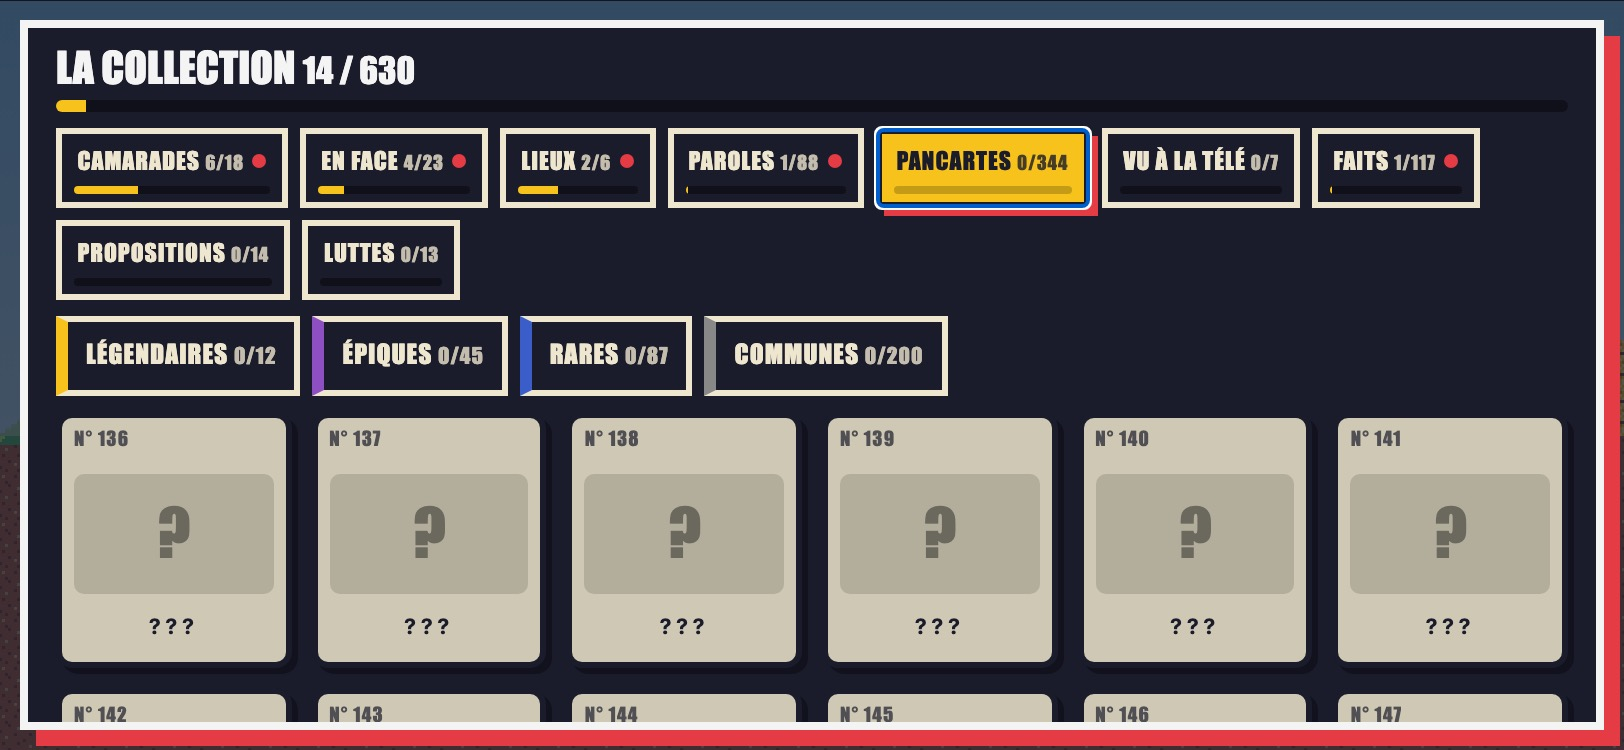
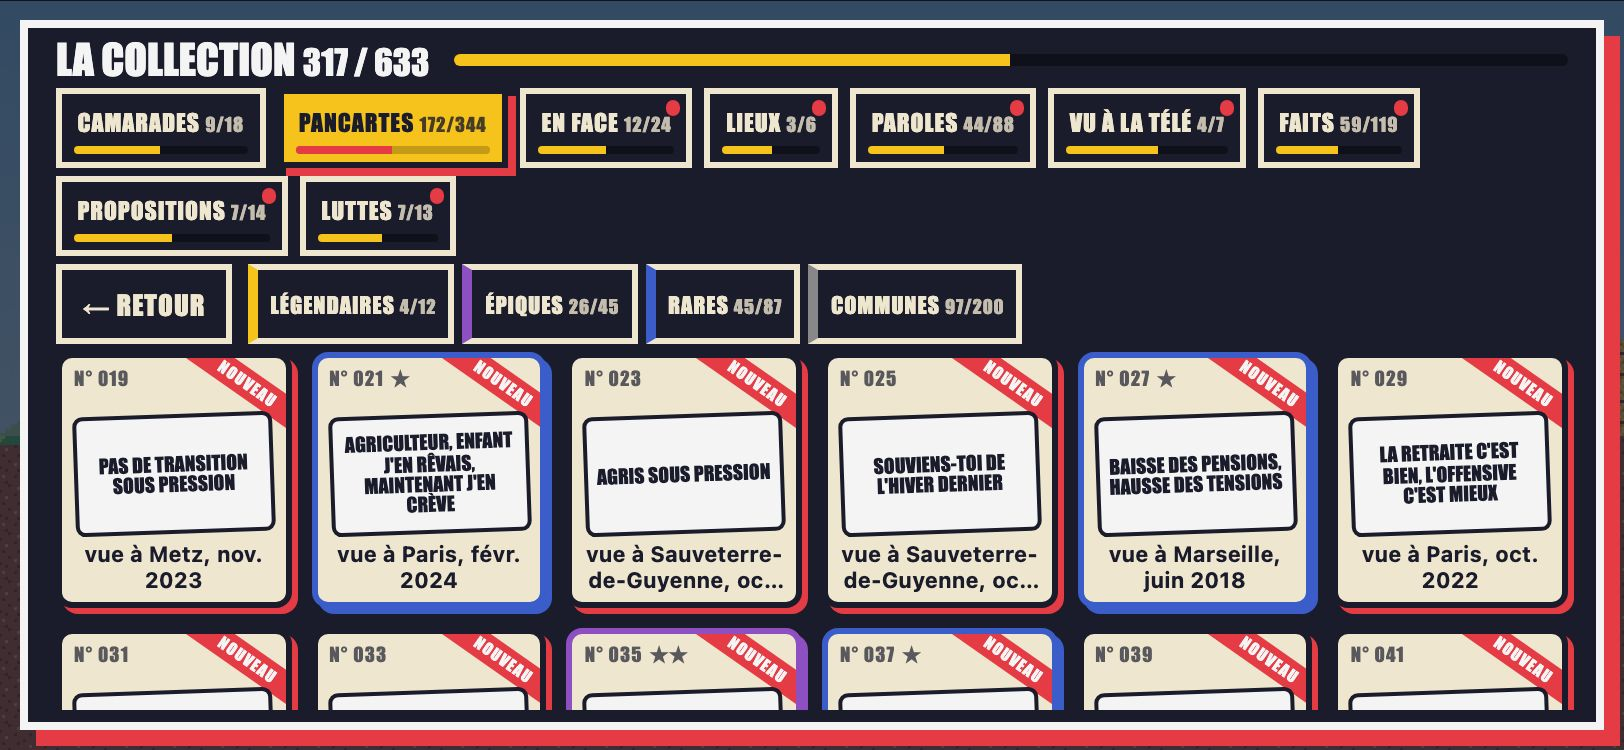
fix: une Collection qui ne bouge plus, les pancartes en deuxième, et un retour sur le carton d'ouverture (#21)
* fix: une Collection qui garde sa taille d'un rayon à l'autre

« Je trouve que le menu de la collection est trop difficile à naviguer
parce qu'il change tout le temps de taille dès qu'on change de catégorie.
Alors ça le rend difficile à lire. » (Valentin, 16 novembre 2026)

Pourquoi elle bougeait :
- le panneau prenait la hauteur de son contenu et se recentrait : un rayon
  court (Lieux, Vu à la télé, Propositions, Luttes) le faisait descendre
  de 64 à 133 px à 1280×720, et de 1 à 8 px sur téléphone ;
- la rangée des filtres de rareté n'existait que pour Pancartes et Vu à
  la télé : la grille sautait de 40 à 48 px ;
- la pastille « Nouveau » élargissait l'onglet qui la portait, et
  disparaissait une fois le rayon vu : les onglets glissaient, et sur
  téléphone pivoté l'un d'eux changeait de ligne ;
- tout le panneau défilait : une barre de défilement classique
  (Windows) apparaissait sur les longs rayons et rétrécissait de 15 px
  la rangée d'onglets et la grille.

Maintenant, le panneau a sa hauteur à lui ; titre, rayons, filtres et
« Retour » restent en place et seule la grille défile, sa barre ayant
toujours sa place. La rangée des filtres garde sa hauteur, vide sur les
rayons sans rareté. La pastille se pose dans le coin de l'onglet. Sur un
écran bas, « Retour » ouvre la rangée des filtres et la grande jauge
s'efface : une rangée entière de cartes reste en vue.

* feat: les pancartes en deuxième dans la Collection
[…]

diff --git a/style.css b/style.css
@@ -414,6 +414,11 @@ html.pivote body.tactile #toasts { right: calc(max(10px, env(safe-area-inset-bot
 .panneau .pied button.effacer { margin-left: auto; font-size: .8em; opacity: .75; } /* à l'écart, en bas des Options du menu */
 .pause .touches { margin: 0; }
 .intro .depart { display: flex; flex-direction: column; align-items: center; }
+/*
+ * « ← Retour » à gauche de « C'est parti », plus discret : le bouton principal reste celui qui lance le niveau.
+ * Les deux boutons restent sur une ligne ; sur un écran bas, ce sont les commandes, à côté, qui se resserrent.
+ */
+.intro .boutons { display: flex; flex: none; justify-content: center; align-items: center; gap: 10px; }
 .panneau .onglets { display: flex; flex-wrap: wrap; gap: 8px; margin: .8em 0; }
 .panneau .contenu { font-size: .9rem; }
 
@@ -509,7 +514,10 @@ html.bas .pause h2 { margin: 0; font-size: 1.4rem; }
 html.bas .pause button { padding: .5em .6em; }
 html.bas .pause button.gros { font-size: 1.15rem; }
 html.bas .intro .depart { flex-direction: row; justify-content: center; gap: 14px; margin-top: .3em; }
-html.bas .intro .depart .touches { justify-content: flex-start; max-width: 25em; margin: 0; font-size: .72rem; line-height: 1.5; text-align: left; }
+html.bas .intro .depart .touches { justify-content: flex-start; max-width: 25em; min-width: 0; margin: 0; font-size: .72rem; line-height: 1.5; text-align: left; }
+html.bas .intro .boutons { gap: 8px; }
+html.bas .intro .boutons button.discret { font-size: .85rem; padding: .4em .75em; }
+body.tactile .intro .boutons button.discret { min-height: 40px; }
 html.bas .panneau.commandes { padding: 10px 14px; }
 html.bas .commandes h2 { font-size: 1.3rem; margin: 0 0 .3em; }
 html.bas .commandes table { font-size: .7rem; line-height: 1.25; }
@@ -704,16 +712,44 @@ article.carte.cachee h3 { letter-spacing: .2em; }
 /* l'album : barres de progression, cartes compactes toutes de la même taille */
 .jauge { display: block; height: 6px; background: #0006; border-radius: 3px; overflow: hidden; }
 .jauge i { display: block; height: 100%; background: var(--or); }
+/*
+ * La Collection ne change pas de taille d'un rayon à l'autre : le panneau a sa hauteur à lui, pas celle de son
+ * contenu ; le titre, les rayons, « Retour » et les filtres restent en place, seule la grille défile.
+ */
+.panneau.biblio {
+  height: min(100%, 800px);
+  display: grid;
+  grid-template-columns: auto minmax(0, 1fr);
+  grid-template-rows: auto auto auto auto minmax(0, 1fr);
+  overflow: hidden;
+}
+.biblio > * { grid-column: 1 / -1; }
 .biblio > .jauge { height: 10px; margin: -.3em 0 .9em; }
+.biblio > .onglets { margin: 0 0 10px; }
+/* « Retour » ouvre la rangée des filtres : elle a toujours la hauteur du bouton, que le rayon ait des raretés ou non. */
+.biblio > .barre { display: flex; align-items: center; gap: 10px; margin: 0 0 10px; }
+/* La grille défile seule ; sa barre de défilement a toujours sa place, la largeur des colonnes n'en dépend pas. */
+.biblio > .contenu { min-height: 0; overflow-y: auto; overscroll-behavior: contain; scrollbar-gutter: stable; margin: -6px -8px 0 -6px; padding: 6px 8px 10px 6px; }
+/* Trop bas pour une rangée entière de cartes sous les rayons (`Screens.fitShelf`) : le titre et sa jauge se replient. */
+:is(html, html.bas) .panneau.biblio.serre { padding-block: 4px; grid-template-rows: auto auto minmax(0, 1fr); }
+.biblio.serre > h2, .biblio.serre > .jauge { display: none; }
+:is(html, html.bas) .panneau.biblio.serre > :is(.onglets, .barre) { margin-bottom: 2px; }
+/* Plus bas encore : tout le panneau défile, les rayons restent collés en haut. Au repos, rien ne bouge d'un rayon à l'autre. */
+.panneau.biblio.tout-defile { display: flex; flex-flow: row wrap; align-content: flex-start; align-items: center; overflow-y: auto; overscroll-behavior: contain; scrollbar-gutter: stable; scroll-padding-bottom: 8px; }
+.biblio.tout-defile > * { flex: 1 0 100%; }
+/* Collés tout en haut, marge du panneau comprise : aucune carte ne passe au-dessus d'eux. */
+.biblio.tout-defile > .onglets { position: sticky; top: -6px; z-index: 1; background: var(--nuit); box-shadow: 0 4px 0 var(--nuit); }
+.biblio.tout-defile > .contenu { overflow: visible; }
 .biblio .onglets button { position: relative; padding-bottom: 1em; }
 .biblio .onglets button small { font-size: .8em; opacity: .8; }
 .biblio .onglets button .jauge { position: absolute; left: 6px; right: 6px; bottom: 4px; height: 4px; }
 .biblio .onglets button:not(.discret) .jauge { background: #0003; }
 .biblio .onglets button:not(.discret) .jauge i { background: var(--rouge); }
 .pastille { display: inline-block; width: .6em; height: .6em; margin-left: .35em; border-radius: 50%; background: var(--rouge); vertical-align: .1em; }
+/* Sur un rayon, la pastille se pose dans le coin : qu'elle vienne ou s'en aille, l'onglet garde sa largeur. */
+.biblio .onglets .pastille { position: absolute; top: 4px; right: 4px; margin: 0; }
 
-.biblio .raretes { display: flex; flex-wrap: wrap; gap: 6px; margin: 0 0 .8em; }
-.biblio .raretes:empty { display: none; }
+.biblio .raretes { display: flex; flex-wrap: wrap; gap: 6px; min-width: 0; }
 .biblio .raretes button { font-size: .8rem; padding: .35em .7em; border-left: 6px solid var(--gris, #888); }
 .biblio .raretes button.rarete-1 { border-left-color: var(--rare); }
 .biblio .raretes button.rarete-2 { border-left-color: var(--epique); }
@@ -782,15 +818,24 @@ html.bas .carte-ouverte article.carte > * { margin-bottom: 5px; }
 html.bas .carte-ouverte article.carte > :not(header, .vignette) { display: flow-root; } /* le texte se range à côté de l'image */
 html.bas .carte-ouverte article.carte > .vignette { float: left; width: 34%; height: 128px; margin: 0 10px 5px 0; }
 html.bas .carte-ouverte article.carte.niveaux > .vignette { float: none; width: auto; height: 64px; margin-right: 0; }
-/* Écran bas : l'en-tête, les rayons et les filtres se serrent, une rangée entière de cartes reste en vue. */
-html.bas .panneau.biblio { padding-block: 10px; }
-html.bas .biblio h2 { font-size: 1.3rem; margin-bottom: .25em; }
-html.bas .biblio > .jauge { height: 6px; margin: 0 0 .5em; }
-html.bas .biblio .onglets { gap: 6px; margin: 0 0 .5em; }
+/*
+ * Écran bas : l'en-tête, les rayons, « Retour » et les filtres se serrent, une rangée entière de cartes reste en vue.
+ * La grande jauge passe à côté du titre.
+ */
+html.bas .panneau.biblio { padding-block: 6px; grid-template-rows: auto auto auto minmax(0, 1fr); column-gap: 12px; }
+html.bas .biblio h2 { grid-column: 1; font-size: 1.3rem; margin: 0 0 4px; }
+html.bas .biblio > .jauge { grid-column: 2; align-self: center; height: 6px; margin: 0 0 4px; }
+html.bas .biblio.tout-defile > h2 { flex: 0 0 auto; margin-right: 12px; }
+html.bas .biblio.tout-defile > .jauge { flex: 1 1 0; }
+html.bas .biblio .onglets { gap: 4px 6px; margin: 0 0 4px; }
 html.bas .biblio .onglets button { font-size: .74rem; padding: .45em .65em .85em; }
-html.bas .biblio .raretes { margin-bottom: .5em; }
-/* Au pouce, les rayons et les filtres de rareté se touchent sans viser. */
-body.tactile .biblio .onglets button, body.tactile .biblio .raretes button { min-height: 40px; }
+html.bas .biblio .onglets .pastille { top: 3px; right: 3px; }
+html.bas .biblio > .barre { gap: 8px; margin: 0 0 4px; }
+html.bas .biblio .barre > button { font-size: .85rem; padding: .4em .75em; }
+html.bas .biblio .raretes { gap: 4px; }
+html.bas .biblio .raretes button { font-size: .7rem; padding: .3em .55em; border-left-width: 5px; }
+/* Au pouce, les rayons, « Retour » et les filtres de rareté se touchent sans viser. */
+body.tactile .biblio .onglets button, body.tactile .biblio .barre button { min-height: 40px; }
 
 /* ------------------------------------------------------------------ choix du héros, +1, pile de vies */
 

diff --git a/src/client/ui.js b/src/client/ui.js
@@ -184,18 +184,44 @@ export class Screens {
         if (shelf.id === tab) shown = button;
         return button;
       })),
-      h('div', { className: 'raretes' }, rarityCounts(bundle, save, tab).reverse().map((r) => Object.assign(this.button(
-        [`${r.name}s `, h('small', {}, `${r.found}/${r.total}`)],
-        () => this.collection(tab, { rarity: rarity === r.rarity ? null : r.rarity, keep: r.rarity, back }), `rarete-${r.rarity}${rarity === r.rarity ? '' : ' discret'}`),
-      { ariaPressed: String(rarity === r.rarity) }))),
-      h('div', { className: 'contenu album' }, shelfGrid(bundle, tab, save, actionsFor, rarity)),
-      h('div', { className: 'pied' }, this.back(leave)));
+      // « Retour » ouvre la rangée des filtres : elle garde sa hauteur sur les rayons sans rareté, la grille ne saute pas.
+      h('div', { className: 'barre' }, this.back(leave),
+        h('div', { className: 'raretes' }, rarityCounts(bundle, save, tab).reverse().map((r) => Object.assign(this.button(
+          [`${r.name}s `, h('small', {}, `${r.found}/${r.total}`)],
+          () => this.collection(tab, { rarity: rarity === r.rarity ? null : r.rarity, keep: r.rarity, back }), `rarete-${r.rarity}${rarity === r.rarity ? '' : ' discret'}`),
+        { ariaPressed: String(rarity === r.rarity) })))),
+      h('div', { className: 'contenu album' }, shelfGrid(bundle, tab, save, actionsFor, rarity)));
     this.escape = leave;
+    this.fitShelf();
     // Le clavier reste où il était : sur le filtre qu'on vient de toucher, sinon sur le rayon ouvert.
     const keyboard = keep === null ? shown : this.root.querySelector(`.raretes .rarete-${keep}`);
     keyboard?.focus({ preventScroll: true });
     markSeen(save, tab); // affichées avec leur badge « Nouveau » cette fois-ci, plus la prochaine
     storeSave(save);
+  }
+
+  /**
+   * Une rangée entière de cartes doit rester en vue sous les rayons. Sur un écran trop bas pour cela (téléphone en
+   * paysage, barre du navigateur visible), le titre se replie ; plus bas encore, tout le panneau défile et les rayons
+   * restent collés en haut. La mesure ne dépend pas du rayon ouvert : d'un rayon à l'autre, rien ne bouge.
+   * Refaite quand la fenêtre change de taille.
+   */
+  fitShelf() {
+    const panel = this.root.querySelector('.panneau.biblio');
+    if (!panel) return;
+    panel.classList.remove('serre', 'tout-defile');
+    panel.style.scrollPaddingTop = '';
+    const grid = panel.querySelector('.contenu');
+    // La hauteur d'une carte : mesurée, gardée pour un filtre de rareté sans aucune carte (128 : `button.carte-mini`).
+    this.cardHeight = grid.querySelector('.carte-mini')?.offsetHeight || this.cardHeight || 128;
+    const fits = () => grid.clientHeight >= this.cardHeight + parseFloat(getComputedStyle(grid).paddingTop);
+    if (fits()) return;
+    panel.classList.add('serre');
+    if (fits()) return;
+    panel.classList.replace('serre', 'tout-defile');
+    // Une carte atteinte au clavier ou à la manette ne passe pas sous les rayons collés.
+    const tabs = panel.querySelector('.onglets');
+    panel.style.scrollPaddingTop = `${tabs.offsetHeight + 8}px`;
   }
 
   /** Lance le prochain niveau avec ce héros au départ. */
@@ -309,7 +335,7 @@ export class Screens {
       storeSave(this.save);
       this.go.restart(); // la partie repart avec ce héros, et ce carton se réaffiche
     };
-    // Échap ne lance pas le niveau : il ramène là d'où l'on vient, le plan, l'Atelier ou le menu.
+    // « ← Retour », comme Échap, ne lance pas le niveau : il ramène là d'où l'on vient, le plan, l'Atelier ou le menu.
     // Un changement de héros réaffiche ce carton : l'écran d'avant reste le même.
     const before = this.root.firstElementChild?.classList;
     if (!before?.contains('intro')) {
@@ -327,7 +353,8 @@ export class Screens {
       h('h2', {}, level.titre),
       level.accroche && h('p', { className: 'accroche' }, level.accroche),
       choose && heroes.length > 1 && this.heroRow(heroes, mine, hero, pick),
-      h('div', { className: 'depart' }, this.keys(), go)); // écran bas : les commandes à côté du bouton, pas au-dessus
+      // Écran bas : les commandes à côté des boutons, pas au-dessus. « C'est parti » reste le bouton principal.
+      h('div', { className: 'depart' }, this.keys(), h('div', { className: 'boutons' }, this.back(() => this.introBack()), go)));
     this.escape = this.introBack;
     this.fitHeroNames();
     // Une longue déclaration sur un écran bas : la manchette rapetisse jusqu'à ce que le carton tienne sans défiler.

diff --git a/src/client/collection.js b/src/client/collection.js
@@ -10,13 +10,16 @@ import { RARITIES } from '../content/rules.js';
 import { sprite, spriteElement } from './sprites.js';
 import { isFound } from './save.js';
 
-/** Les rayons de l'album, dans l'ordre d'affichage. `keep` trie les fiches entre deux rayons. */
+/**
+ * Les rayons de l'album, dans l'ordre d'affichage : onglets, clavier, manette, numéros des cartes.
+ * Les pancartes viennent juste après les camarades. `keep` trie les fiches entre deux rayons.
+ */
 export const SHELVES = [
   { id: 'camarades', titre: 'Camarades', kinds: ['heros', 'recrues'] },
+  { id: 'pancartes', titre: 'Pancartes', kinds: ['pancartes'] },
   { id: 'en-face', titre: 'En face', kinds: ['ennemis', 'boss'] },
   { id: 'lieux', titre: 'Lieux', kinds: ['niveaux'] },
   { id: 'paroles', titre: 'Paroles', kinds: ['citations'] },
-  { id: 'pancartes', titre: 'Pancartes', kinds: ['pancartes'] },
   { id: 'tele', titre: 'Vu à la télé', kinds: ['manchettes'] },
   { id: 'faits', titre: 'Faits', kinds: ['fiches'], keep: (f) => f.theme !== 'programme' },
   { id: 'propositions', titre: 'Propositions', kinds: ['fiches'], keep: (f) => f.theme === 'programme' },

diff --git a/tests/collection.test.js b/tests/collection.test.js
@@ -18,6 +18,12 @@ test('collection : une carte par fiche, numérotée, avec un nom et une clé uni
   }
 });
 
+test('collection : les pancartes en deuxième, juste après les camarades ; les numéros suivent les rayons', () => {
+  assert.deepEqual(SHELVES.map((s) => s.id), ['camarades', 'pancartes', 'en-face', 'lieux', 'paroles', 'tele', 'faits', 'propositions', 'luttes']);
+  const shelfOf = cards.map((c) => SHELVES.findIndex((s) => s.id === c.shelf));
+  assert.deepEqual(shelfOf, [...shelfOf].sort((a, b) => a - b), 'les cartes d’un rayon se suivent, rayon après rayon');
+});
+
 test('collection : chaque rayon a ses cartes ; faits et propositions se partagent les fiches', () => {
   for (const shelf of SHELVES) assert.ok(cards.some((c) => c.shelf === shelf.id), `rayon « ${shelf.titre} »`);
   const of = (id) => cards.filter((c) => c.shelf === id);

diff --git a/tests/album.test.js b/tests/album.test.js
@@ -14,7 +14,7 @@ test('débloqué dans le niveau : les clés de sauvegarde retrouvent leurs carte
   const sign = bundle.pancartes.find((p) => p.credit && p.texte.includes(':')) || bundle.pancartes.find((p) => p.credit);
   const keys = [`pancartes:${sign.texte}`, 'ennemis:crs', 'heros:zucman', 'heros:inconnu', 'fiches:smic'];
   const found = cardsByKeys(bundle, keys);
-  assert.deepEqual(found.map(cardKey), ['heros:zucman', 'ennemis:crs', `pancartes:${sign.texte}`, 'fiches:smic']);
+  assert.deepEqual(found.map(cardKey), ['heros:zucman', `pancartes:${sign.texte}`, 'ennemis:crs', 'fiches:smic']);
   assert.deepEqual(cardsByKeys(bundle, []), []);
   assert.equal(new Set(cards.map(cardKey)).size, cards.length, 'une clé par carte');
 });

diff --git a/src/client/main.js b/src/client/main.js
@@ -349,6 +349,7 @@ function layout() {
   renderer.signTop = thumbs ? 30 : Math.max(30, Math.ceil((140 * (window.devicePixelRatio || 1)) / renderer.scale));
   hud.row = 0; // à remesurer
   input.refreshTouch();
+  screens.fitShelf(); // la Collection ouverte : une rangée de cartes tient-elle encore sous ses rayons ?
 }
 addEventListener('resize', layout);
 document.addEventListener('visibilitychange', () => {

diff --git a/CONTRIBUTING.md b/CONTRIBUTING.md
@@ -39,7 +39,7 @@ Déposer un fichier suffit : aucune liste à tenir à jour.
 
 ## La Collection
 
-Tout ce qu'on dépose se débloque quand le joueur le croise dans le jeu, et se retrouve dans la Collection. Neuf rayons : Camarades, En face, Lieux, Paroles, Pancartes, Vu à la télé, Faits, Propositions, Luttes.
+Tout ce qu'on dépose se débloque quand le joueur le croise dans le jeu, et se retrouve dans la Collection. Neuf rayons : Camarades, Pancartes, En face, Lieux, Paroles, Vu à la télé, Faits, Propositions, Luttes.
 
 Sur la carte d'un personnage ou d'un lieu, trois clés font le texte :
 
